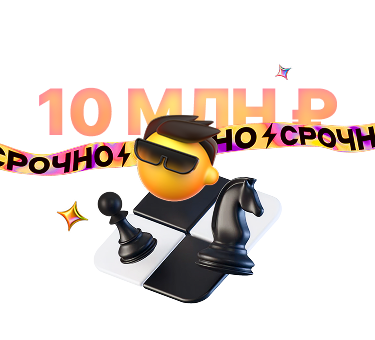
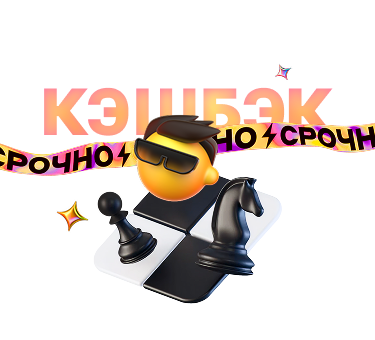
fix

Changed region(s): [[0.088, 0.2353, 0.9093, 0.4118]]

diff --git a/src/App.tsx b/src/App.tsx
@@ -1,6 +1,4 @@
-import { BottomSheet } from '@alfalab/core-components/bottom-sheet/cssm';
 import { Button } from '@alfalab/core-components/button/cssm';
-import { Checkbox } from '@alfalab/core-components/checkbox/cssm';
 import { Gap } from '@alfalab/core-components/gap/cssm';
 import { PureCell } from '@alfalab/core-components/pure-cell/cssm';
 import { Typography } from '@alfalab/core-components/typography/cssm';
@@ -13,7 +11,7 @@ import firstPlaceImg from './assets/place1.svg';
 import hbImg from './assets/hb.png';
 import lockImg from './assets/lock.svg';
 import radarImg from './assets/radar.svg';
-import { achievementSlides, avaSlides, boardSlides, bundles, figSlides, listItems, phoneSlides } from './data';
+import { achievementSlides, avaSlides, boardSlides, figSlides, listItems, phoneSlides } from './data';
 import { LS, LSKeys } from './ls';
 import { appSt } from './style.css';
 
@@ -22,13 +20,6 @@ const LINK =
 
 export const App = () => {
   const [loading, setLoading] = useState(false);
-  const [openBs, setOpenBs] = useState(false);
-  const [bundlesState, setBundlesState] = useState<string[]>(['Альфа-Шахматы']);
-
-  const bundlesSum = bundlesState.reduce((sum, title) => {
-    const bundle = bundles.find(b => b.title === title);
-    return sum + (bundle ? (typeof bundle.price === 'number' ? bundle.price : 0) : 0);
-  }, 0);
 
   useEffect(() => {
     if (!LS.getItem(LSKeys.UserId, null)) {
@@ -51,7 +42,7 @@ export const App = () => {
               Альфа-Шахматы
             </Typography.TitleResponsive>
             <Typography.Text view="primary-small" color="secondary">
-              с призовым фондом
+              Кэшбэк 10% на внутриигровые покупки
             </Typography.Text>
           </div>
           <img
@@ -62,7 +53,7 @@ export const App = () => {
             style={{ objectFit: 'cover', transform: 'scale(1.1)', margin: '-1rem 0 1rem' }}
           />
           <Typography.Text view="primary-small" color="secondary">
-            Участвуйте в онлайн турнире с оффлайн финалом в Москве
+            Играйте и выигрывайте
           </Typography.Text>
         </div>
 
@@ -371,60 +362,10 @@ export const App = () => {
       </div>
 
       <div className={appSt.bottomBtn}>
-        <Button block view="primary" onClick={() => setOpenBs(true)} style={{ borderRadius: '2rem' }}>
+        <Button block view="primary" loading={loading} onClick={submit} style={{ borderRadius: '2rem' }}>
           Играть бесплатно
         </Button>
       </div>
-
-      <BottomSheet
-        open={openBs}
-        onClose={() => {
-          setOpenBs(false);
-        }}
-        hasCloser
-        title="Выберите пакет"
-        titleAlign="left"
-        stickyHeader
-        actionButton={
-          <Button loading={loading} block view="primary" onClick={submit} style={{ borderRadius: '2rem' }}>
-            Играть {bundlesSum === 0 ? 'бесплатно' : `за ${bundlesSum} ₽`}
-          </Button>
-        }
-      >
-        <div className={appSt.container} style={{ padding: 0 }}>
-          {bundles.map((bundle, index) => (
-            <PureCell
-              className={appSt.listCell}
-              key={index}
-              onClick={() =>
-                setBundlesState(prev =>
-                  bundlesState.includes(bundle.title)
-                    ? prev.filter(title => title !== bundle.title)
-                    : [...prev, bundle.title],
-                )
-              }
-            >
-              <PureCell.Graphics verticalAlign="center">
-                <img src={bundle.img} alt={bundle.title} width={44} height={44} />
-              </PureCell.Graphics>
-              <PureCell.Content>
-                <PureCell.Main>
-                  <Typography.Text view="primary-medium" weight="medium">
-                    {bundle.title}
-                  </Typography.Text>
-                  <Typography.Text view="primary-small" color="secondary">
-                    {typeof bundle.price === 'number' ? `${bundle.price} ₽` : bundle.price}
-                  </Typography.Text>
-                </PureCell.Main>
-              </PureCell.Content>
-
-              <PureCell.Graphics verticalAlign="center">
-                <Checkbox size={24} checked={bundlesState.includes(bundle.title)} />
-              </PureCell.Graphics>
-            </PureCell>
-          ))}
-        </div>
-      </BottomSheet>
     </>
   );
 };